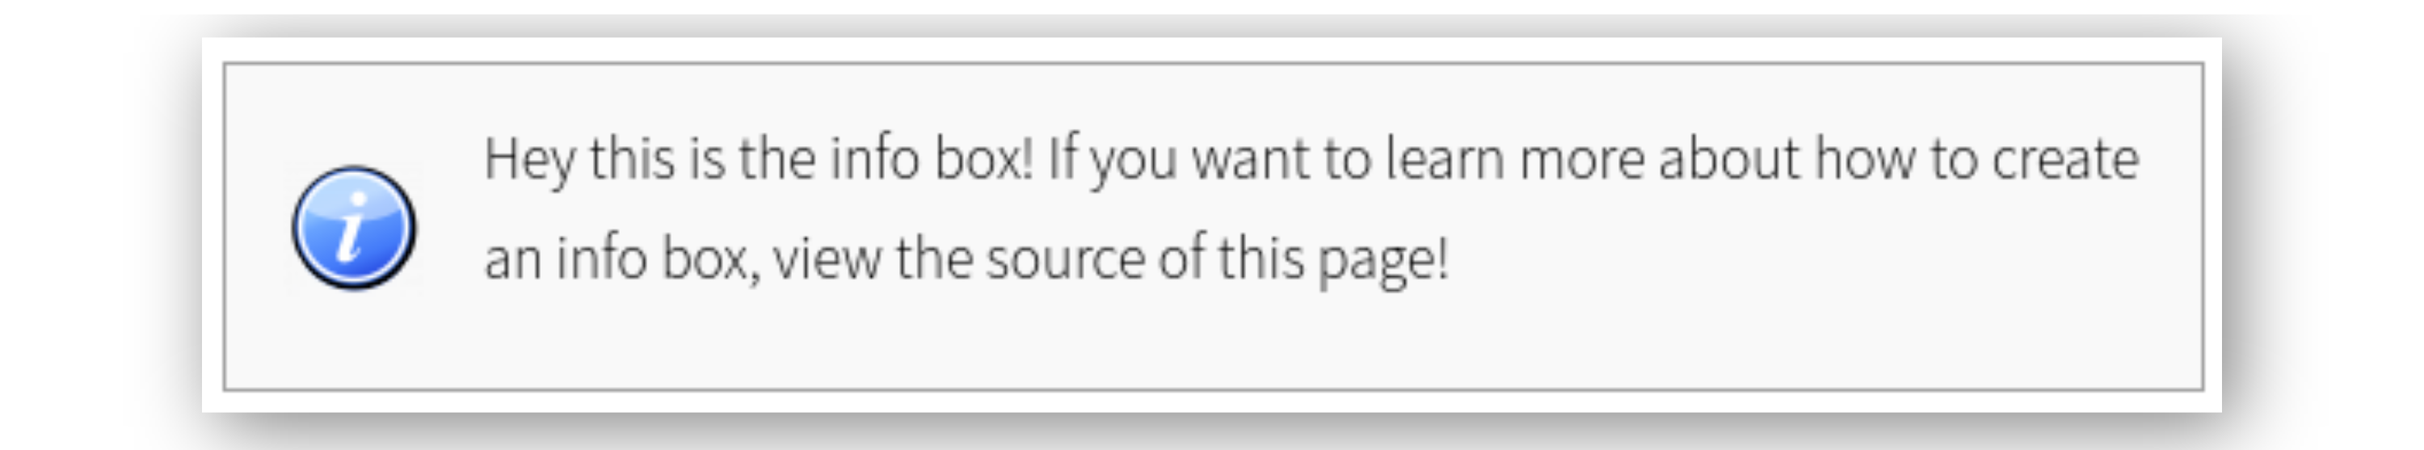
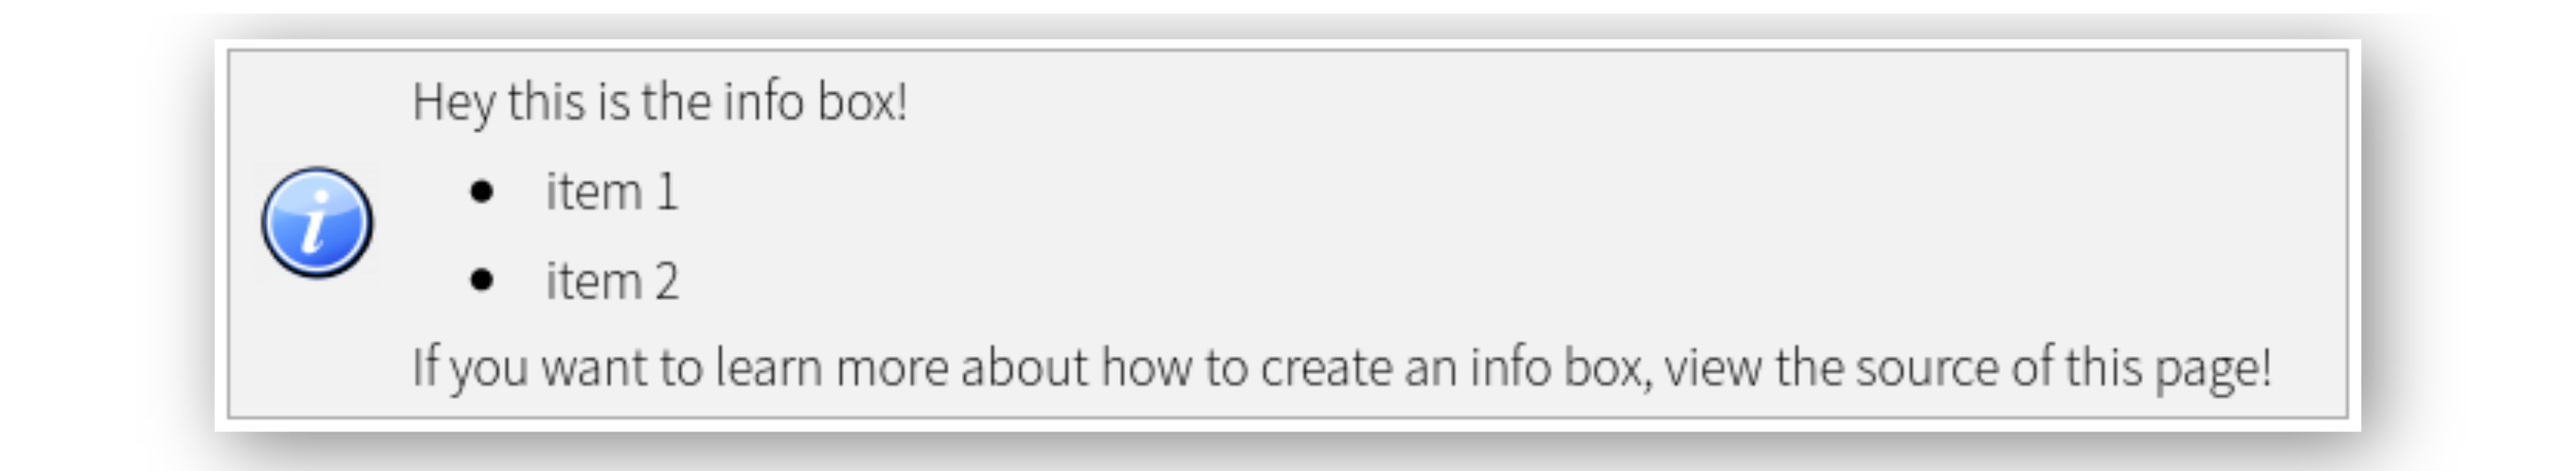
Updated infobox on readme

Changed region(s): [[0.093, 0.0916, 0.93, 0.9156]]

diff --git a/README.md b/README.md
@@ -112,7 +112,12 @@ Wow such pretty math!
 To add an info-box to your page, specifiy the icon you wish to use and include the info-box content:
 
 ```
-{% include info-box icon_path="/images/icons/40px-Information-sign.png" content="Hey this is the info box! If you want to learn more about how to create an info box, view the source of this page!" %}
+{% include info-box icon_path="/images/icons/40px-Information-sign.png" content="Hey this is the info box! 
+
+- item 1
+- item 2
+
+If you want to learn more about how to create an info box, view the source of this page!" %}
 ```
 
 <p align="center">
